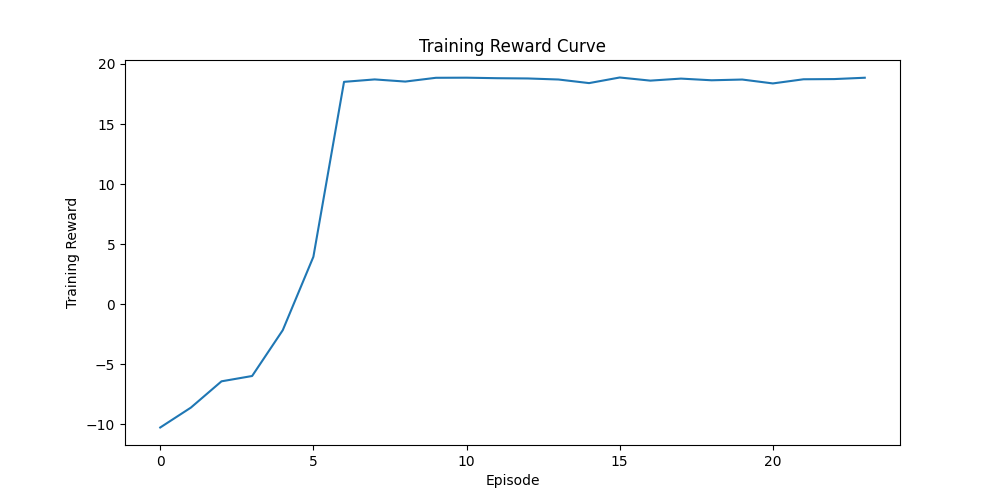
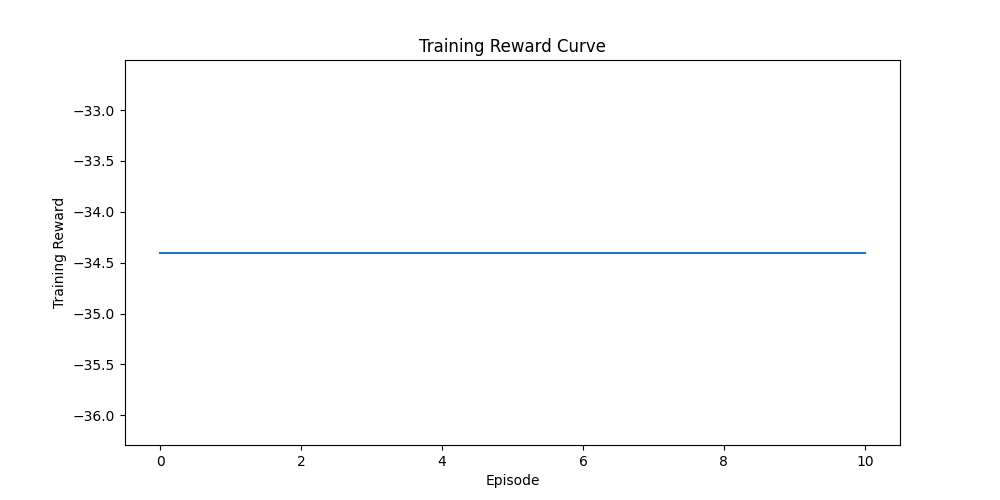
跑通了但是逻辑上有问题：1.没有可选动作时应该跳转到下一个时间戳。2.奖励函数设置的是否正确

diff --git a/Env.py b/Env.py
@@ -108,7 +108,7 @@ class SemiconductorEnv:
         self.problem_info = load_problem()
         self.machine_status = {}
         self.operation_type_name = get_operation_type_name()
-        print('初始化需求成功，当前产品名称，及其需求量为：',self.problem_info[0]['ProductionRequirements'])
+        # print('初始化需求成功，当前产品名称，及其需求量为：',self.problem_info[0]['ProductionRequirements'])
 
         # 初始化操作类型列表，确保状态向量顺序一致
         self.operation_types_list = list(self.operation_types.keys())
@@ -116,7 +116,7 @@ class SemiconductorEnv:
 
         # 初始化机器状态
         self.init_machinestaus()
-        print("初始化机器状态成功，当前机器状态为：", self.machine_status)
+        # print("初始化机器状态成功，当前机器状态为：", self.machine_status)
 
         # 初始化作业和操作需求
         jobrequirements = self.problem_info[0]['ProductionRequirements']  # [('A', 2), ('B', 1)]
@@ -182,24 +182,28 @@ class SemiconductorEnv:
         # print("当前状态为：", state)
         return state
     
-    
-    
     def execute_action(self, action):
         """执行动作：选择最相似的候选动作并更新状态"""
         # 生成候选动作
         action_machine_pairs = []
-        executable_ops = self.executable_operations
+        executable_ops = self.executable_operations # 当前可执行的操作
 
-        for op in executable_ops:
-            job = next(job for job, ops in self.operationrequirements.items() if op in ops)
-            for machine, status in self.machine_status.items():
-                if not status['working'] and self.timestamp >= self.machine_completion_times[machine]:
-                    # 检查机器是否能处理该操作
+        for op in executable_ops: # 遍历可执行操作
+            job = next(job for job, ops in self.operationrequirements.items() if op in ops) # 获取操作所属的作业
+            for machine, status in self.machine_status.items(): # 遍历机器
+                if not status['working'] and self.timestamp >= self.machine_completion_times[machine]: # 机器空闲
+                    # 检查机器是否能处理该操作，意思是DA和WB的区别.
+                    # 先获得Machine的前两个字符
+                    Machinetype = machine[:2]
+
+                
                     machine_setting = status['setting']
                     op_name = self.operation_type_name[op]
-                    if op_name in machine_setting:
+
+                    op_type = op_name.split('_')[1][:2]
+                    if op_type in Machinetype: 
                         # 计算设置时间
-                        machine_type_id = 1 if machine.startswith("DARES") else 2
+                        machine_type_id = 1 if machine.startswith("DARES") else 2 
                         is_job_type_same = machine_setting.startswith(job)
                         is_operation_type_same = op_name.split('_')[1] in machine_setting
                         setup_time = get_setup_time(machine_type_id, is_job_type_same, is_operation_type_same)
@@ -217,26 +221,58 @@ class SemiconductorEnv:
 
         if not action_machine_pairs:
             # print("无可用动作")
-            return None, None
+            return None, None, None, None
 
         # 选择最相似的动作
         def distance(a1, a2):
-            return np.sqrt(sum((x - y) ** 2 for x, y in zip(a1[:4], a2[:4])))
+            return np.sqrt(sum((x - y) ** 2 for x, y in zip(a1[:4], a2[:4]))) # 只比较前四个元素
         
         selected_action = min(action_machine_pairs, key=lambda x: distance(action, x))
         setup_time, processing_time, _, _, selected_op, selected_machine = selected_action
-        # print("选择的动作为：", selected_action)
+        # print("候选动作为：选择的动作为：",action_machine_pairs,selected_action)
 
-        # 执行动作
-        self.machine_status[selected_machine]['working'] = True
-        self.machine_status[selected_machine]['current_operation'] = selected_op
-        self.machine_completion_times[selected_machine] = self.timestamp + setup_time + processing_time
+        # # 执行动作
+        # self.machine_status[selected_machine]['working'] = True
+        # self.machine_status[selected_machine]['current_operation'] = selected_op
+        # self.machine_completion_times[selected_machine] = self.timestamp + setup_time + processing_time # 更新机器完成时间
+        
 
+        # 在减少需求和更新可执行操作后，返回更多信息
         job = next(job for job, ops in self.operationrequirements.items() if selected_op in ops)
-        self.operationrequirements[job][selected_op] -= 1
-        self.executable_operations = get_executable_operations(self.operationrequirements)
+        
+        return selected_op, selected_machine, selected_action, job  # 添加 job 到返回值
 
-        return selected_op, selected_machine
+    def get_available_actions(self, state):
+        """获取可用动作列表"""
+        # 生成候选动作
+        action_machine_pairs = []
+        executable_ops = self.executable_operations # 当前可执行的操作
+
+        for op in executable_ops: # 遍历可执行操作
+            job = next(job for job, ops in self.operationrequirements.items() if op in ops) # 获取操作所属的作业
+            for machine, status in self.machine_status.items(): # 遍历机器
+                if not status['working'] and self.timestamp >= self.machine_completion_times[machine]: # 机器空闲
+                    # 检查机器是否能处理该操作
+                    machine_setting = status['setting']
+                    op_name = self.operation_type_name[op]
+                    if op_name in machine_setting:
+                        # 计算设置时间
+                        machine_type_id = 1 if machine.startswith("DARES") else 2 
+                        is_job_type_same = machine_setting.startswith(job)
+                        is_operation_type_same = op_name.split('_')[1] in machine_setting
+                        setup_time = get_setup_time(machine_type_id, is_job_type_same, is_operation_type_same)
+
+                        # 处理时间
+                        processing_time = self.operation_types[op]['processingTime']
+
+                        # 剩余操作数量和时间
+                        total_ops = len(self.job_types[job])
+                        current_idx = self.job_types[job].index(op)
+                        left_operations = total_ops - current_idx - 1
+                        left_time = sum(self.operation_types[self.job_types[job][i]]['processingTime'] for i in range(current_idx + 1, total_ops))
+
+                        action_machine_pairs.append((setup_time, processing_time, left_operations, left_time, op, machine))
+        return action_machine_pairs
 
     def calculate_reward(self, prev_time, next_time, setup_time):
         """奖励 = -(切换时间 + 所有机器的空闲时间之和)"""
@@ -246,7 +282,7 @@ class SemiconductorEnv:
                 idle_time = next_time - max(prev_time, completion_time)
                 idle_time_sum += max(0, idle_time)
         reward = -(setup_time + idle_time_sum)
-        print(f"奖励计算：切换时间={setup_time}, 空闲时间和={idle_time_sum}, 奖励={reward}")
+        # print(f"奖励计算：切换时间={setup_time}, 空闲时间和={idle_time_sum}, 奖励={reward}")
         return reward
 
     def is_done(self):
@@ -259,6 +295,7 @@ class SemiconductorEnv:
 
     def reset(self):
         """重置环境"""
+        self.operation_log = []  # 初始化操作日志
         self.init_machinestaus()
         jobrequirements = self.problem_info[0]['ProductionRequirements']
         operationrequirements = {}
@@ -275,26 +312,72 @@ class SemiconductorEnv:
         return self.state()
 
     def step(self, action):
-        """执行一步"""
+        """执行一步，返回新的状态、奖励和是否结束"""
+        # Record the current timestamp as τ(s_t)
         prev_time = self.timestamp
-        selected_op, selected_machine = self.execute_action(action)
+
+        # Execute the action provided by the agent
+        selected_op, selected_machine, selected_action, job = self.execute_action(action)
+        print(selected_action)
         
+        # If no action can be executed, return current state with zero reward
         if selected_op is None:
             return self.state(), 0, self.is_done(), {}
 
-        # 更新时间戳到下一个事件
-        next_time = min(t for t in self.machine_completion_times.values() if t > self.timestamp)
+        # Extract action details
+        setup_time, processing_time, _, _, _, _ = selected_action
+        completion_time = self.timestamp + setup_time + processing_time
+
+        # Update machine status
+        self.machine_status[selected_machine]['working'] = True
+        self.machine_status[selected_machine]['current_operation'] = selected_op
+        self.machine_completion_times[selected_machine] = completion_time
+
+        # Update operation requirements
+        self.operationrequirements[job][selected_op] -= 1
+        if self.operationrequirements[job][selected_op] == 0:
+            # Recalculate executable operations if this operation type is depleted for the job
+            self.executable_operations = get_executable_operations(self.operationrequirements)
+
+        # Determine next timestamp τ(s_{t+1})
+        available_actions = self.get_available_actions(self.state())
+        if available_actions:
+            # More actions can be taken at the current timestamp
+            next_time = self.timestamp
+        else:
+            # No more actions possible; advance to the next event (earliest machine completion)
+            next_times = [t for t in self.machine_completion_times.values() if t > self.timestamp]
+            next_time = min(next_times) if next_times else float('inf')
+
+        # Calculate reward: r_t = -(setup_time + sum of idle times from prev_time to next_time)
+        idle_time_sum = 0
+        if next_time > prev_time:
+            for machine, status in self.machine_status.items():
+                completion_time = self.machine_completion_times[machine]
+                if not status['working'] or completion_time <= prev_time:
+                    # Machine was idle at prev_time and remains idle until next_time
+                    idle_time_sum += next_time - prev_time
+                elif completion_time > prev_time and completion_time <= next_time:
+                    # Machine was busy at prev_time but becomes idle before next_time
+                    idle_time_sum += next_time - completion_time
+                # If completion_time > next_time, machine is busy throughout, so idle time is 0
+        # If next_time == prev_time, idle_time_sum remains 0 (no time passes)
+        
+        reward = -(setup_time + idle_time_sum)
+
+        # Advance timestamp to τ(s_{t+1})
         self.timestamp = next_time
 
-        # 检查完成的操作
-        for machine, completion_time in self.machine_completion_times.items():
-            if completion_time <= self.timestamp and self.machine_status[machine]['working']:
-                self.machine_status[machine]['working'] = False
-                self.machine_status[machine]['current_operation'] = None
+        # Update machine statuses at the new timestamp
+        if self.timestamp < float('inf'):
+            for machine, completion_time in self.machine_completion_times.items():
+                if self.timestamp >= completion_time and self.machine_status[machine]['working']:
+                    self.machine_status[machine]['working'] = False
+                    self.machine_status[machine]['current_operation'] = None
 
-        state = self.state()
-        setup_time = action[0]  # 从动作中提取切换时间
-        reward = self.calculate_reward(prev_time, next_time, setup_time)
+        # Compute the new state s_{t+1}
+        new_state = self.state()
         done = self.is_done()
-        return state, reward, done, {}
+
+        return new_state, reward, done, {}
     

diff --git a/DDPG.py b/DDPG.py
@@ -112,12 +112,12 @@ class DDPGAgent:
         for param, target_param in zip(self.actor.parameters(), self.actor_target.parameters()):
             target_param.data.copy_(self.tau * param.data + (1 - self.tau) * target_param.data)
 
-# 主程序：训练和评估
+
 def main():
     env = SemiconductorEnv()
     state_dim = env.num_operation_types * 3  # 状态维度
     action_dim = 4  # 动作维度：setup_time, processing_time, left_operations, left_time
-    max_action = np.array([10.0, 10.0, 5.0, 50.0])  # 动作范围
+    max_action = np.array([70, 300, 20, 5000])  # 动作范围
 
     agent = DDPGAgent(state_dim, action_dim, max_action)
 
@@ -125,7 +125,7 @@ def main():
     max_steps = 500
 
     # 训练成功标准参数
-    target_reward = 50.0  # 设置目标奖励阈值，根据环境调整
+    target_reward = -30.0  # 设置目标奖励阈值，根据环境调整
     success_window = 10  # 连续几个episode达标才算成功
     history_rewards = []  # 记录历史奖励
     convergence_threshold = 5.0  # 收敛阈值
@@ -139,7 +139,8 @@ def main():
         for step in range(max_steps):
             action = agent.select_action(state)
             noise = np.random.normal(0, 0.1, size=action_dim)
-            action = np.clip(action + noise, -max_action, max_action)
+            action = np.clip(action + noise, 0, max_action)
+            # print(f"Action: {action}")
 
             next_state, reward, done, _ = env.step(action)
             agent.replay_buffer.add(state, action, reward, next_state, done)
@@ -173,54 +174,6 @@ def main():
                     print(f"训练收敛! 奖励稳定在{avg_recent_reward:.2f}")
                     break
 
-    # 绘制训练过程中的奖励曲线
-    plt.figure(figsize=(10, 5))
-    plt.plot(history_rewards)
-    plt.xlabel("Episode")
-    plt.ylabel("Training Reward")
-    plt.title("Training Reward Curve")
-    plt.savefig("training_rewards.png")
-
-    # 评估
-    total_rewards = []
-    for i in range(10):
-        state = env.reset()
-        episode_reward = 0
-        done = False
-        while not done:
-            action = agent.select_action(state)
-            next_state, reward, done, _ = env.step(action)
-            state = next_state
-            episode_reward += reward
-        total_rewards.append(episode_reward)
-    avg_reward = np.mean(total_rewards)
-    print(f"平均奖励（10次评估）: {avg_reward}")
     
-    # 最终判断训练是否成功
-    eval_success_threshold = target_reward * 0.8  # 评估阶段的成功阈值可以略低
-    if avg_reward >= eval_success_threshold:
-        training_success = True
-        print(f"评估成功! 平均奖励{avg_reward:.2f}超过评估阈值{eval_success_threshold}")
-    
-    print(f"训练{'成功' if training_success else '未成功'}")
-    
-    # 绘制评估奖励曲线
-    plt.figure(figsize=(10, 5))
-    plt.plot(total_rewards)
-    plt.xlabel("Episode")
-    plt.ylabel("Evaluation Reward")
-    plt.title("Evaluation Reward Curve")
-    plt.show()
-
-    # 保存模型
-    if training_success:
-        torch.save(agent.actor.state_dict(), "actor_success.pth")
-        torch.save(agent.critic.state_dict(), "critic_success.pth")
-    else:
-        torch.save(agent.actor.state_dict(), "actor.pth")
-        torch.save(agent.critic.state_dict(), "critic.pth")
-
-    
-
 if __name__ == "__main__":
     main()
